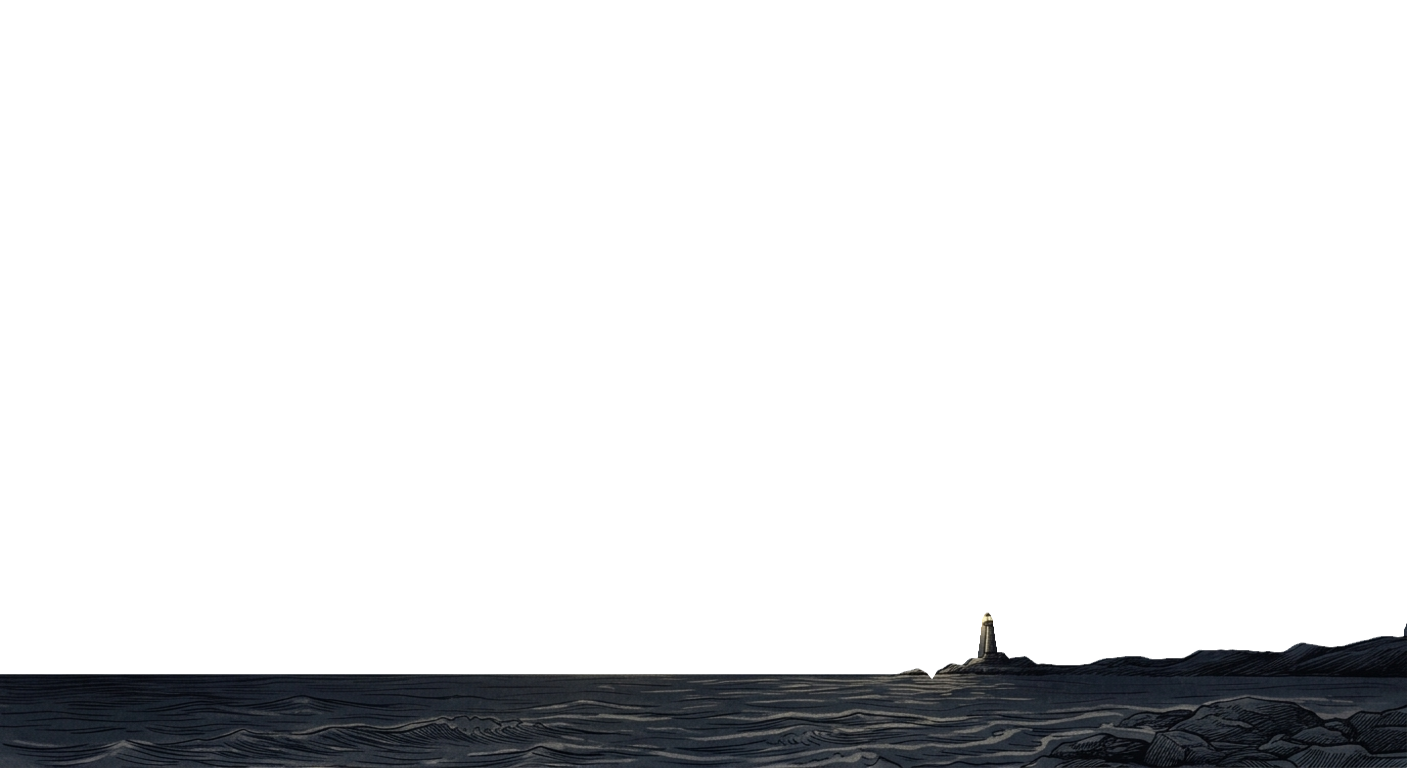
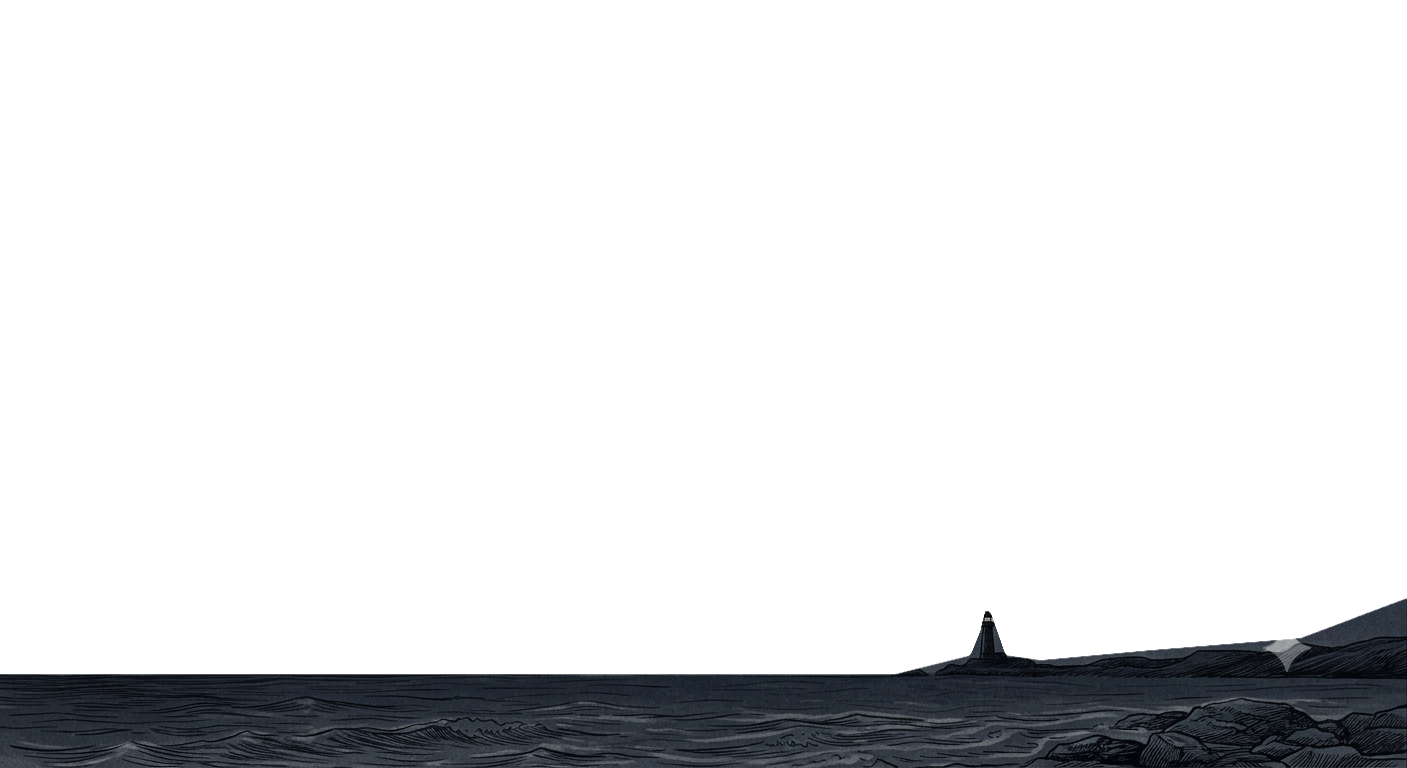
fix(art): lock night mode background strictly to original real_write_mode artwork

Changed region(s): [[0.0, 0.7812, 1.0, 1.0]]

diff --git a/src/components/BackgroundSwitcher.tsx b/src/components/BackgroundSwitcher.tsx
@@ -50,20 +50,20 @@ export default function BackgroundSwitcher() {
         const body = document.body;
         if (!body) return;
 
-        // Determine background image based on selection and theme
-        if (bgOption === "none") {
-            body.style.backgroundImage = "none";
-        } else if (bgOption === "candidate") {
-            body.style.backgroundImage = isDark
-                ? 'url("/candidate_bg_dark.png")'
-                : 'url("/candidate_bg.png")';
-        } else if (bgOption === "original") {
-            body.style.backgroundImage = isDark
-                ? 'url("/real_write_mode.png")'
-                : 'url("/real_read_mode.original.png")';
-        } else {
-            // Default: clear inline override so globals.css controls it (theme-dependent)
+        // When in dark mode, preserve original cosmic night mode art completely untouched
+        if (isDark) {
             body.style.backgroundImage = "";
+        } else {
+            // Light mode background selection
+            if (bgOption === "none") {
+                body.style.backgroundImage = "none";
+            } else if (bgOption === "candidate") {
+                body.style.backgroundImage = 'url("/candidate_bg.png")';
+            } else if (bgOption === "original") {
+                body.style.backgroundImage = 'url("/real_read_mode.original.png")';
+            } else {
+                body.style.backgroundImage = "";
+            }
         }
 
         body.style.backgroundSize = bgSize;
@@ -198,54 +198,60 @@ export default function BackgroundSwitcher() {
                     {/* Background Selection */}
                     <div className="space-y-1.5 pt-2 border-t border-current/10">
                         <span className="block text-[10px] uppercase tracking-wider text-[var(--text-muted)]">
-                            Background Art
+                            Background Art {isDark ? "(Original Night Locked)" : "(Daytime Testing)"}
                         </span>
-                        <div className="grid grid-cols-2 gap-1.5">
-                            <button
-                                type="button"
-                                onClick={() => selectBg("candidate")}
-                                className={`px-2 py-1 rounded text-[11px] text-left border cursor-pointer transition-colors ${
-                                    bgOption === "candidate"
-                                        ? "bg-[var(--text-color)] text-[var(--bg-color)] font-medium border-transparent"
-                                        : "border-current/15 text-[var(--text-muted)] hover:text-[var(--text-color)] hover:bg-current/10"
-                                }`}
-                            >
-                                ★ Candidate {isDark ? "(Night)" : "(Day)"}
-                            </button>
-                            <button
-                                type="button"
-                                onClick={() => selectBg("default")}
-                                className={`px-2 py-1 rounded text-[11px] text-left border cursor-pointer transition-colors ${
-                                    bgOption === "default"
-                                        ? "bg-[var(--text-color)] text-[var(--bg-color)] font-medium border-transparent"
-                                        : "border-current/15 text-[var(--text-muted)] hover:text-[var(--text-color)] hover:bg-current/10"
-                                }`}
-                            >
-                                Default (Theme)
-                            </button>
-                            <button
-                                type="button"
-                                onClick={() => selectBg("original")}
-                                className={`px-2 py-1 rounded text-[11px] text-left border cursor-pointer transition-colors ${
-                                    bgOption === "original"
-                                        ? "bg-[var(--text-color)] text-[var(--bg-color)] font-medium border-transparent"
-                                        : "border-current/15 text-[var(--text-muted)] hover:text-[var(--text-color)] hover:bg-current/10"
-                                }`}
-                            >
-                                Original Read
-                            </button>
-                            <button
-                                type="button"
-                                onClick={() => selectBg("none")}
-                                className={`px-2 py-1 rounded text-[11px] text-left border cursor-pointer transition-colors ${
-                                    bgOption === "none"
-                                        ? "bg-[var(--text-color)] text-[var(--bg-color)] font-medium border-transparent"
-                                        : "border-current/15 text-[var(--text-muted)] hover:text-[var(--text-color)] hover:bg-current/10"
-                                }`}
-                            >
-                                None (Clean)
-                            </button>
-                        </div>
+                        {isDark ? (
+                            <div className="p-2 rounded bg-current/5 border border-current/10 text-[10px] text-[var(--text-muted)] leading-relaxed">
+                                🌌 Night mode uses your original cosmic artwork (<code className="text-[var(--text-color)]">/real_write_mode.png</code>). Switch to light mode to test daytime backgrounds.
+                            </div>
+                        ) : (
+                            <div className="grid grid-cols-2 gap-1.5">
+                                <button
+                                    type="button"
+                                    onClick={() => selectBg("candidate")}
+                                    className={`px-2 py-1 rounded text-[11px] text-left border cursor-pointer transition-colors ${
+                                        bgOption === "candidate"
+                                            ? "bg-[var(--text-color)] text-[var(--bg-color)] font-medium border-transparent"
+                                            : "border-current/15 text-[var(--text-muted)] hover:text-[var(--text-color)] hover:bg-current/10"
+                                    }`}
+                                >
+                                    ★ Candidate Art
+                                </button>
+                                <button
+                                    type="button"
+                                    onClick={() => selectBg("default")}
+                                    className={`px-2 py-1 rounded text-[11px] text-left border cursor-pointer transition-colors ${
+                                        bgOption === "default"
+                                            ? "bg-[var(--text-color)] text-[var(--bg-color)] font-medium border-transparent"
+                                            : "border-current/15 text-[var(--text-muted)] hover:text-[var(--text-color)] hover:bg-current/10"
+                                    }`}
+                                >
+                                    Default (Theme)
+                                </button>
+                                <button
+                                    type="button"
+                                    onClick={() => selectBg("original")}
+                                    className={`px-2 py-1 rounded text-[11px] text-left border cursor-pointer transition-colors ${
+                                        bgOption === "original"
+                                            ? "bg-[var(--text-color)] text-[var(--bg-color)] font-medium border-transparent"
+                                            : "border-current/15 text-[var(--text-muted)] hover:text-[var(--text-color)] hover:bg-current/10"
+                                    }`}
+                                >
+                                    Original Read
+                                </button>
+                                <button
+                                    type="button"
+                                    onClick={() => selectBg("none")}
+                                    className={`px-2 py-1 rounded text-[11px] text-left border cursor-pointer transition-colors ${
+                                        bgOption === "none"
+                                            ? "bg-[var(--text-color)] text-[var(--bg-color)] font-medium border-transparent"
+                                            : "border-current/15 text-[var(--text-muted)] hover:text-[var(--text-color)] hover:bg-current/10"
+                                    }`}
+                                >
+                                    None (Clean)
+                                </button>
+                            </div>
+                        )}
                     </div>
 
                     {/* Scaling & Placement */}
